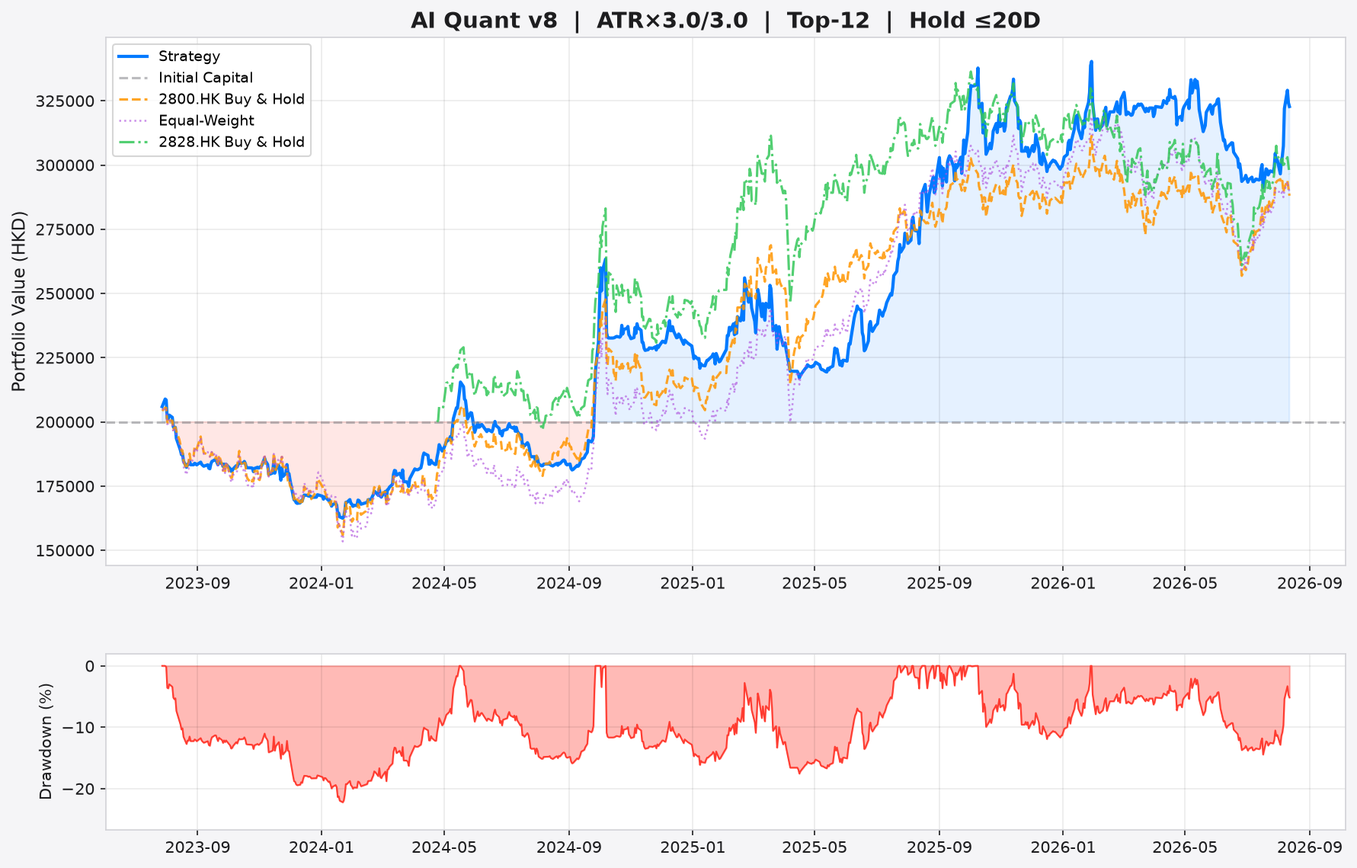
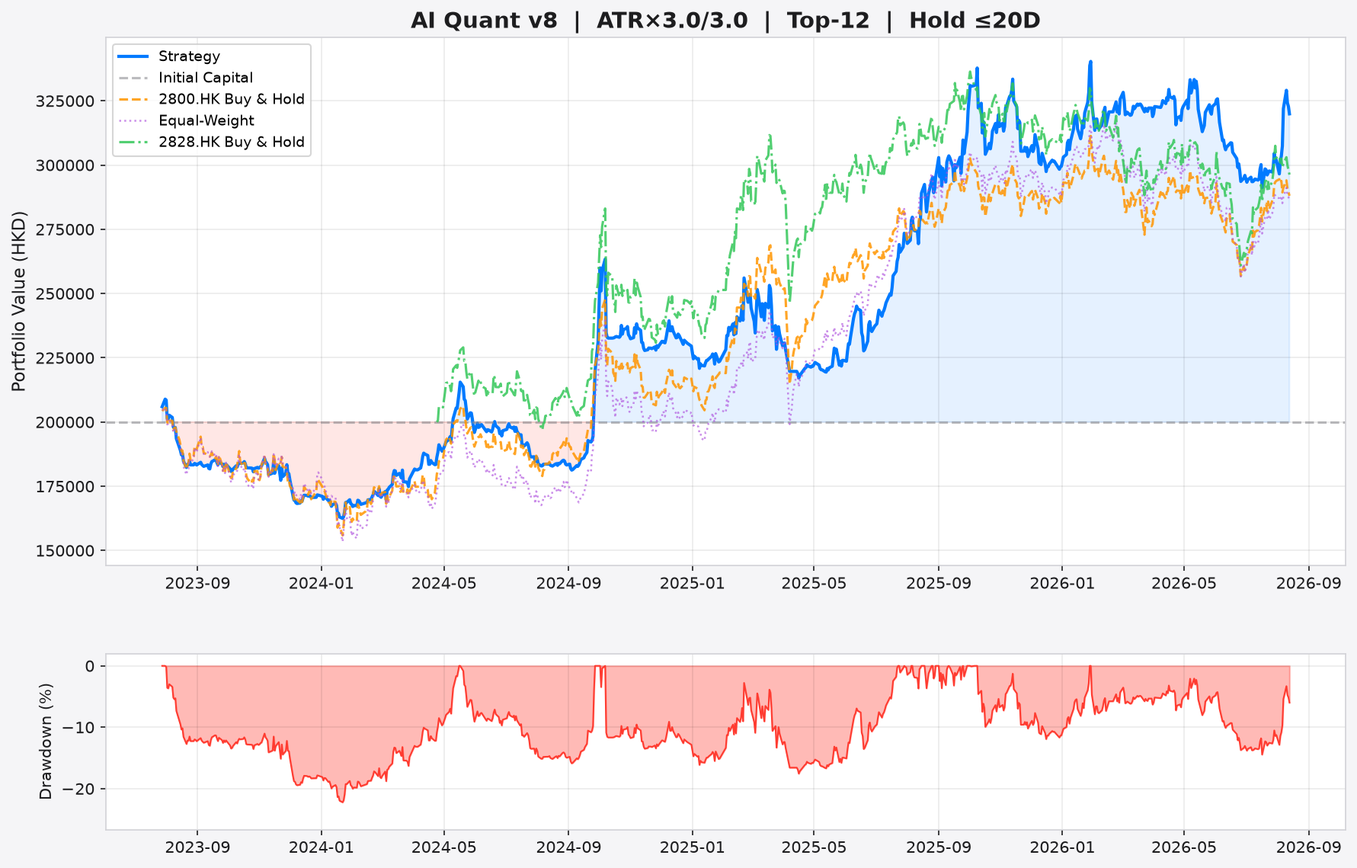
📊 AI Report v8.5 + Paper Trading (2026-08-13)

diff --git a/stock_report.html b/stock_report.html
@@ -3,7 +3,7 @@
 <head>
     <meta charset="utf-8">
     <meta name="viewport" content="width=device-width, initial-scale=1.0">
-    <title>AI 港股量化交易 v8.5 — 2026-08-12</title>
+    <title>AI 港股量化交易 v8.5 — 2026-08-13</title>
     <meta name="description" content="AI 驅動的港股量化交易系統 v8.5，完整風險報告、Benchmark 對比、OCO 智慧掛單建議">
     <script>
         (function() {
@@ -292,7 +292,7 @@
 
     <h1>🎯 AI 港股量化交易 v8.5</h1>
     <p class="subtitle">
-        Event-Driven System &nbsp;|&nbsp; 報表日期: 2026-08-12 &nbsp;|&nbsp;
+        Event-Driven System &nbsp;|&nbsp; 報表日期: 2026-08-13 &nbsp;|&nbsp;
         <span class="config-badge">🛡 ATR×3.0/3.0</span>
         <span class="config-badge">🌐 Universe-60</span>
         <span class="config-badge">🎯 Top-12</span>
@@ -305,11 +305,11 @@
     <div class="stats">
         <div class="stat-card">
             <div class="label">策略總報酬率</div>
-            <div class="value" style="color:#00ff00;">+61.4%</div>
+            <div class="value" style="color:#00ff00;">+60.0%</div>
         </div>
         <div class="stat-card">
             <div class="label">年化報酬率</div>
-            <div class="value" style="color:#00ff00;">+17.5%</div>
+            <div class="value" style="color:#00ff00;">+17.2%</div>
         </div>
         <div class="stat-card">
             <div class="label">年化波動率</div>
@@ -317,11 +317,11 @@
         </div>
         <div class="stat-card risk">
             <div class="label">Sharpe Ratio</div>
-            <div class="value" style="color:#00ff00;">0.78</div>
+            <div class="value" style="color:#00ff00;">0.76</div>
         </div>
         <div class="stat-card risk">
             <div class="label">Sortino Ratio</div>
-            <div class="value">1.05</div>
+            <div class="value">1.03</div>
         </div>
         <div class="stat-card risk">
             <div class="label">最大回撤</div>
@@ -329,7 +329,7 @@
         </div>
         <div class="stat-card risk">
             <div class="label">Calmar Ratio</div>
-            <div class="value">0.79</div>
+            <div class="value">0.77</div>
         </div>
         <div class="stat-card">
             <div class="label">完成交易數</div>
@@ -372,28 +372,28 @@
             </tr>
         </thead>
         <tbody>
-<tr><td>1548</td><td>5.50</td><td>24.9</td><td><span style="color:#00ff00; font-weight:bold;">🟢 建議買進 #1</span></td><td><b>停利:</b> <span style="color:#00ff00">29.6</span> (+19.2%) <br><b>停損:</b> <span style="color:#ff4444">20.1</span> (-19.2%) <br><b>最晚出場:</b> 2026-09-09</td><td><span style="font-size:0.72rem; color:#888;">歷史 <b>5</b>筆 | 勝率 <b style="color:#00ff00">60%</b> | 均報酬 <b style="color:#00ff00">+5.0%</b></span></td><td><span style="font-size:0.78rem;">⚪ 無資料<br><span style="color:#888; font-weight:bold;">+0.0%</span></span></td><td><span style="font-size:0.78rem;">⚪ 中性</span></td></tr>
-<tr><td>2359</td><td>5.31</td><td>198.9</td><td><span style="color:#00ff00; font-weight:bold;">🟢 建議買進 #2</span></td><td><b>停利:</b> <span style="color:#00ff00">224.7</span> (+13.0%) <br><b>停損:</b> <span style="color:#ff4444">173.1</span> (-13.0%) <br><b>最晚出場:</b> 2026-09-09</td><td><span style="font-size:0.72rem; color:#888;">歷史 <b>14</b>筆 | 勝率 <b style="color:#00ff00">86%</b> | 均報酬 <b style="color:#00ff00">+7.9%</b></span></td><td><span style="font-size:0.78rem;">⚪ 無資料<br><span style="color:#888; font-weight:bold;">+0.0%</span></span></td><td><span style="font-size:0.78rem;">⚪ 中性</span></td></tr>
-<tr><td>2269</td><td>5.17</td><td>45.7</td><td><span style="color:#00ff00; font-weight:bold;">🟢 建議買進 #3</span></td><td><b>停利:</b> <span style="color:#00ff00">51.7</span> (+13.1%) <br><b>停損:</b> <span style="color:#ff4444">39.7</span> (-13.1%) <br><b>最晚出場:</b> 2026-09-09</td><td><span style="font-size:0.72rem; color:#888;">歷史 <b>10</b>筆 | 勝率 <b style="color:#ff4444">40%</b> | 均報酬 <b style="color:#ff4444">-3.1%</b></span></td><td><span style="font-size:0.78rem;">⚪ 無資料<br><span style="color:#888; font-weight:bold;">+0.0%</span></span></td><td><span style="font-size:0.78rem;">⚪ 中性</span></td></tr>
-<tr><td>2899</td><td>5.10</td><td>35.9</td><td><span style="color:#00ff00; font-weight:bold;">🟢 建議買進 #4</span></td><td><b>停利:</b> <span style="color:#00ff00">40.6</span> (+13.1%) <br><b>停損:</b> <span style="color:#ff4444">31.2</span> (-13.1%) <br><b>最晚出場:</b> 2026-09-09</td><td><span style="font-size:0.72rem; color:#888;">歷史 <b>11</b>筆 | 勝率 <b style="color:#00ff00">73%</b> | 均報酬 <b style="color:#00ff00">+2.7%</b></span></td><td><span style="font-size:0.78rem;">⚪ 無資料<br><span style="color:#888; font-weight:bold;">+0.0%</span></span></td><td><span style="font-size:0.78rem;">⚪ 中性</span></td></tr>
-<tr><td>6160</td><td>5.08</td><td>216.6</td><td><span style="color:#00ff00; font-weight:bold;">🟢 建議買進 #5</span></td><td><b>停利:</b> <span style="color:#00ff00">239.9</span> (+10.7%) <br><b>停損:</b> <span style="color:#ff4444">193.3</span> (-10.7%) <br><b>最晚出場:</b> 2026-09-09</td><td><span style="font-size:0.72rem; color:#888;">歷史 <b>4</b>筆 | 勝率 <b style="color:#00ff00">50%</b> | 均報酬 <b style="color:#ff4444">-1.2%</b></span></td><td><span style="font-size:0.78rem;">⚪ 無資料<br><span style="color:#888; font-weight:bold;">+0.0%</span></span></td><td><span style="font-size:0.78rem;">⚪ 中性</span></td></tr>
-<tr><td>0669</td><td>4.93</td><td>144.8</td><td><span style="color:#00ff00; font-weight:bold;">🟢 建議買進 #6</span></td><td><b>停利:</b> <span style="color:#00ff00">160.1</span> (+10.6%) <br><b>停損:</b> <span style="color:#ff4444">129.5</span> (-10.6%) <br><b>最晚出場:</b> 2026-09-09</td><td><span style="font-size:0.72rem; color:#888;">歷史 <b>7</b>筆 | 勝率 <b style="color:#00ff00">71%</b> | 均報酬 <b style="color:#00ff00">+1.9%</b></span></td><td><span style="font-size:0.78rem;">⚪ 無資料<br><span style="color:#888; font-weight:bold;">+0.0%</span></span></td><td><span style="font-size:0.78rem;">⚪ 中性</span></td></tr>
-<tr><td>0268</td><td>4.90</td><td>8.2</td><td><span style="color:#00ff00; font-weight:bold;">🟢 建議買進 #7</span></td><td><b>停利:</b> <span style="color:#00ff00">9.8</span> (+19.0%) <br><b>停損:</b> <span style="color:#ff4444">6.7</span> (-19.0%) <br><b>最晚出場:</b> 2026-09-09</td><td><span style="font-size:0.72rem; color:#888;">歷史 <b>9</b>筆 | 勝率 <b style="color:#ff4444">22%</b> | 均報酬 <b style="color:#ff4444">-8.3%</b></span></td><td><span style="font-size:0.78rem;">⚪ 無資料<br><span style="color:#888; font-weight:bold;">+0.0%</span></span></td><td><span style="font-size:0.78rem;">⚪ 中性</span></td></tr>
-<tr><td>1208</td><td>4.77</td><td>8.9</td><td><span style="color:#00ff00; font-weight:bold;">🟢 建議買進 #8</span></td><td><b>停利:</b> <span style="color:#00ff00">10.3</span> (+15.8%) <br><b>停損:</b> <span style="color:#ff4444">7.5</span> (-15.8%) <br><b>最晚出場:</b> 2026-09-09</td><td><span style="font-size:0.72rem; color:#888;">歷史 <b>9</b>筆 | 勝率 <b style="color:#ff4444">44%</b> | 均報酬 <b style="color:#ff4444">-3.6%</b></span></td><td><span style="font-size:0.78rem;">⚪ 無資料<br><span style="color:#888; font-weight:bold;">+0.0%</span></span></td><td><span style="font-size:0.78rem;">⚪ 中性</span></td></tr>
-<tr><td>3690</td><td>4.71</td><td>91.7</td><td><span style="color:#00ff00; font-weight:bold;">🟢 建議買進 #9</span></td><td><b>停利:</b> <span style="color:#00ff00">102.7</span> (+12.0%) <br><b>停損:</b> <span style="color:#ff4444">80.6</span> (-12.0%) <br><b>最晚出場:</b> 2026-09-09</td><td><span style="font-size:0.72rem; color:#888;">歷史 <b>11</b>筆 | 勝率 <b style="color:#00ff00">82%</b> | 均報酬 <b style="color:#00ff00">+8.0%</b></span></td><td><span style="font-size:0.78rem;">⚪ 無資料<br><span style="color:#888; font-weight:bold;">+0.0%</span></span></td><td><span style="font-size:0.78rem;">⚪ 中性</span></td></tr>
-<tr><td>9987</td><td>4.63</td><td>375.4</td><td><span style="color:#00ff00; font-weight:bold;">🟢 建議買進 #10</span></td><td><b>停利:</b> <span style="color:#00ff00">405.8</span> (+8.1%) <br><b>停損:</b> <span style="color:#ff4444">345.0</span> (-8.1%) <br><b>最晚出場:</b> 2026-09-09</td><td><span style="font-size:0.72rem; color:#555;">歷史資料不足</span></td><td><span style="font-size:0.78rem;">⚪ 無資料<br><span style="color:#888; font-weight:bold;">+0.0%</span></span></td><td><span style="font-size:0.78rem;">⚪ 中性</span></td></tr>
-<tr><td>3993</td><td>4.41</td><td>18.1</td><td><span style="color:#00ff00; font-weight:bold;">🟢 建議買進 #11</span></td><td><b>停利:</b> <span style="color:#00ff00">20.9</span> (+15.2%) <br><b>停損:</b> <span style="color:#ff4444">15.3</span> (-15.2%) <br><b>最晚出場:</b> 2026-09-09</td><td><span style="font-size:0.72rem; color:#888;">歷史 <b>12</b>筆 | 勝率 <b style="color:#00ff00">83%</b> | 均報酬 <b style="color:#00ff00">+7.6%</b></span></td><td><span style="font-size:0.78rem;">⚪ 無資料<br><span style="color:#888; font-weight:bold;">+0.0%</span></span></td><td><span style="font-size:0.78rem;">⚪ 中性</span></td></tr>
-<tr><td>9988</td><td>4.32</td><td>122.6</td><td><span style="color:#00ff00; font-weight:bold;">🟢 建議買進 #12</span></td><td><b>停利:</b> <span style="color:#00ff00">137.8</span> (+12.4%) <br><b>停損:</b> <span style="color:#ff4444">107.4</span> (-12.4%) <br><b>最晚出場:</b> 2026-09-09</td><td><span style="font-size:0.72rem; color:#888;">歷史 <b>7</b>筆 | 勝率 <b style="color:#00ff00">57%</b> | 均報酬 <b style="color:#00ff00">+2.3%</b></span></td><td><span style="font-size:0.78rem;">⚪ 無資料<br><span style="color:#888; font-weight:bold;">+0.0%</span></span></td><td><span style="font-size:0.78rem;">⚪ 中性</span></td></tr>
-<tr style="opacity:0.6"><td>2388</td><td>4.17</td><td>49.8</td><td><span style="color:#ffab00">🟡 候選 (超出 Top-K)</span></td><td>-</td><td><span style="font-size:0.72rem; color:#888;">勝率 <b style="color:#ff4444">25%</b></span></td><td><span style="font-size:0.72rem;">⚪ 無資料<br><span style="color:#888">+0.0%</span></span></td><td><span style="font-size:0.72rem;">⚪ 中性</span></td></tr>
-<tr style="opacity:0.6"><td>9618</td><td>3.97</td><td>123.0</td><td><span style="color:#ffab00">🟡 候選 (超出 Top-K)</span></td><td>-</td><td><span style="font-size:0.72rem; color:#888;">勝率 <b style="color:#00ff00">75%</b></span></td><td><span style="font-size:0.72rem;">⚪ 無資料<br><span style="color:#888">+0.0%</span></span></td><td><span style="font-size:0.72rem;">⚪ 中性</span></td></tr>
-<tr style="opacity:0.6"><td>1171</td><td>3.92</td><td>12.5</td><td><span style="color:#ffab00">🟡 候選 (超出 Top-K)</span></td><td>-</td><td><span style="font-size:0.72rem; color:#888;">勝率 <b style="color:#00ff00">50%</b></span></td><td><span style="font-size:0.72rem;">⚪ 無資料<br><span style="color:#888">+0.0%</span></span></td><td><span style="font-size:0.72rem;">⚪ 中性</span></td></tr>
-<tr style="opacity:0.6"><td>1109</td><td>3.87</td><td>35.0</td><td><span style="color:#ffab00">🟡 候選 (超出 Top-K)</span></td><td>-</td><td><span style="font-size:0.72rem; color:#888;">勝率 <b style="color:#ff4444">0%</b></span></td><td><span style="font-size:0.72rem;">⚪ 無資料<br><span style="color:#888">+0.0%</span></span></td><td><span style="font-size:0.72rem;">⚪ 中性</span></td></tr>
-<tr style="opacity:0.6"><td>0939</td><td>3.79</td><td>8.8</td><td><span style="color:#ffab00">🟡 候選 (超出 Top-K)</span></td><td>-</td><td><span style="font-size:0.72rem; color:#888;">勝率 <b style="color:#00ff00">67%</b></span></td><td><span style="font-size:0.72rem;">⚪ 無資料<br><span style="color:#888">+0.0%</span></span></td><td><span style="font-size:0.72rem;">⚪ 中性</span></td></tr>
-<tr style="opacity:0.4"><td>2600</td><td>3.54</td><td>8.8</td><td><span style="color:#aaaaaa">⚪ 觀望 (低於 MA)</span></td><td>-</td><td>-</td><td style="color:#555">-</td><td style="color:#555">-</td></tr>
-<tr style="opacity:0.4"><td>2382</td><td>2.71</td><td>58.8</td><td><span style="color:#aaaaaa">⚪ 觀望 (低於 MA)</span></td><td>-</td><td>-</td><td style="color:#555">-</td><td style="color:#555">-</td></tr>
-<tr style="opacity:0.4"><td>2318</td><td>2.01</td><td>55.5</td><td><span style="color:#aaaaaa">⚪ 觀望 (低於 MA)</span></td><td>-</td><td>-</td><td style="color:#555">-</td><td style="color:#555">-</td></tr>
-<tr style="opacity:0.4"><td>1810</td><td>1.98</td><td>26.4</td><td><span style="color:#aaaaaa">⚪ 觀望 (評分不足)</span></td><td>-</td><td>-</td><td style="color:#555">-</td><td style="color:#555">-</td></tr>
-<tr style="opacity:0.4"><td>0700</td><td>1.71</td><td>461.6</td><td><span style="color:#aaaaaa">⚪ 觀望 (評分不足)</span></td><td>-</td><td>-</td><td style="color:#555">-</td><td style="color:#555">-</td></tr>
+<tr><td>1548</td><td>5.50</td><td>26.0</td><td><span style="color:#00ff00; font-weight:bold;">🟢 建議買進 #1</span></td><td><b>停利:</b> <span style="color:#00ff00">30.9</span> (+19.0%) <br><b>停損:</b> <span style="color:#ff4444">21.0</span> (-19.0%) <br><b>最晚出場:</b> 2026-09-10</td><td><span style="font-size:0.72rem; color:#888;">歷史 <b>5</b>筆 | 勝率 <b style="color:#00ff00">60%</b> | 均報酬 <b style="color:#00ff00">+5.0%</b></span></td><td><span style="font-size:0.78rem;">⚪ 無資料<br><span style="color:#888; font-weight:bold;">+0.0%</span></span></td><td><span style="font-size:0.78rem;">⚪ 中性</span></td></tr>
+<tr><td>2359</td><td>5.41</td><td>203.2</td><td><span style="color:#00ff00; font-weight:bold;">🟢 建議買進 #2</span></td><td><b>停利:</b> <span style="color:#00ff00">229.3</span> (+12.9%) <br><b>停損:</b> <span style="color:#ff4444">177.1</span> (-12.9%) <br><b>最晚出場:</b> 2026-09-10</td><td><span style="font-size:0.72rem; color:#888;">歷史 <b>14</b>筆 | 勝率 <b style="color:#00ff00">86%</b> | 均報酬 <b style="color:#00ff00">+7.9%</b></span></td><td><span style="font-size:0.78rem;">⚪ 無資料<br><span style="color:#888; font-weight:bold;">+0.0%</span></span></td><td><span style="font-size:0.78rem;">⚪ 中性</span></td></tr>
+<tr><td>2269</td><td>5.32</td><td>45.7</td><td><span style="color:#00ff00; font-weight:bold;">🟢 建議買進 #3</span></td><td><b>停利:</b> <span style="color:#00ff00">51.6</span> (+12.9%) <br><b>停損:</b> <span style="color:#ff4444">39.8</span> (-12.9%) <br><b>最晚出場:</b> 2026-09-10</td><td><span style="font-size:0.72rem; color:#888;">歷史 <b>10</b>筆 | 勝率 <b style="color:#ff4444">40%</b> | 均報酬 <b style="color:#ff4444">-3.1%</b></span></td><td><span style="font-size:0.78rem;">⚪ 無資料<br><span style="color:#888; font-weight:bold;">+0.0%</span></span></td><td><span style="font-size:0.78rem;">⚪ 中性</span></td></tr>
+<tr><td>6160</td><td>5.22</td><td>219.4</td><td><span style="color:#00ff00; font-weight:bold;">🟢 建議買進 #4</span></td><td><b>停利:</b> <span style="color:#00ff00">243.1</span> (+10.8%) <br><b>停損:</b> <span style="color:#ff4444">195.7</span> (-10.8%) <br><b>最晚出場:</b> 2026-09-10</td><td><span style="font-size:0.72rem; color:#888;">歷史 <b>4</b>筆 | 勝率 <b style="color:#00ff00">50%</b> | 均報酬 <b style="color:#ff4444">-1.2%</b></span></td><td><span style="font-size:0.78rem;">⚪ 無資料<br><span style="color:#888; font-weight:bold;">+0.0%</span></span></td><td><span style="font-size:0.78rem;">⚪ 中性</span></td></tr>
+<tr><td>0669</td><td>5.07</td><td>144.9</td><td><span style="color:#00ff00; font-weight:bold;">🟢 建議買進 #5</span></td><td><b>停利:</b> <span style="color:#00ff00">160.3</span> (+10.7%) <br><b>停損:</b> <span style="color:#ff4444">129.5</span> (-10.7%) <br><b>最晚出場:</b> 2026-09-10</td><td><span style="font-size:0.72rem; color:#888;">歷史 <b>7</b>筆 | 勝率 <b style="color:#00ff00">71%</b> | 均報酬 <b style="color:#00ff00">+1.9%</b></span></td><td><span style="font-size:0.78rem;">⚪ 無資料<br><span style="color:#888; font-weight:bold;">+0.0%</span></span></td><td><span style="font-size:0.78rem;">⚪ 中性</span></td></tr>
+<tr><td>2899</td><td>4.78</td><td>34.5</td><td><span style="color:#00ff00; font-weight:bold;">🟢 建議買進 #6</span></td><td><b>停利:</b> <span style="color:#00ff00">39.2</span> (+13.7%) <br><b>停損:</b> <span style="color:#ff4444">29.7</span> (-13.7%) <br><b>最晚出場:</b> 2026-09-10</td><td><span style="font-size:0.72rem; color:#888;">歷史 <b>11</b>筆 | 勝率 <b style="color:#00ff00">73%</b> | 均報酬 <b style="color:#00ff00">+2.7%</b></span></td><td><span style="font-size:0.78rem;">⚪ 無資料<br><span style="color:#888; font-weight:bold;">+0.0%</span></span></td><td><span style="font-size:0.78rem;">⚪ 中性</span></td></tr>
+<tr><td>2388</td><td>4.74</td><td>50.8</td><td><span style="color:#00ff00; font-weight:bold;">🟢 建議買進 #7</span></td><td><b>停利:</b> <span style="color:#00ff00">54.1</span> (+6.6%) <br><b>停損:</b> <span style="color:#ff4444">47.4</span> (-6.6%) <br><b>最晚出場:</b> 2026-09-10</td><td><span style="font-size:0.72rem; color:#888;">歷史 <b>4</b>筆 | 勝率 <b style="color:#ff4444">25%</b> | 均報酬 <b style="color:#ff4444">-3.5%</b></span></td><td><span style="font-size:0.78rem;">⚪ 無資料<br><span style="color:#888; font-weight:bold;">+0.0%</span></span></td><td><span style="font-size:0.78rem;">⚪ 中性</span></td></tr>
+<tr><td>9987</td><td>4.63</td><td>376.4</td><td><span style="color:#00ff00; font-weight:bold;">🟢 建議買進 #8</span></td><td><b>停利:</b> <span style="color:#00ff00">406.2</span> (+7.9%) <br><b>停損:</b> <span style="color:#ff4444">346.6</span> (-7.9%) <br><b>最晚出場:</b> 2026-09-10</td><td><span style="font-size:0.72rem; color:#555;">歷史資料不足</span></td><td><span style="font-size:0.78rem;">⚪ 無資料<br><span style="color:#888; font-weight:bold;">+0.0%</span></span></td><td><span style="font-size:0.78rem;">⚪ 中性</span></td></tr>
+<tr><td>3888</td><td>4.37</td><td>26.5</td><td><span style="color:#00ff00; font-weight:bold;">🟢 建議買進 #9</span></td><td><b>停利:</b> <span style="color:#00ff00">30.1</span> (+13.3%) <br><b>停損:</b> <span style="color:#ff4444">23.0</span> (-13.3%) <br><b>最晚出場:</b> 2026-09-10</td><td><span style="font-size:0.72rem; color:#888;">歷史 <b>3</b>筆 | 勝率 <b style="color:#00ff00">100%</b> | 均報酬 <b style="color:#00ff00">+5.1%</b></span></td><td><span style="font-size:0.78rem;">⚪ 無資料<br><span style="color:#888; font-weight:bold;">+0.0%</span></span></td><td><span style="font-size:0.78rem;">⚪ 中性</span></td></tr>
+<tr><td>3690</td><td>4.28</td><td>91.2</td><td><span style="color:#00ff00; font-weight:bold;">🟢 建議買進 #10</span></td><td><b>停利:</b> <span style="color:#00ff00">101.7</span> (+11.4%) <br><b>停損:</b> <span style="color:#ff4444">80.8</span> (-11.4%) <br><b>最晚出場:</b> 2026-09-10</td><td><span style="font-size:0.72rem; color:#888;">歷史 <b>11</b>筆 | 勝率 <b style="color:#00ff00">82%</b> | 均報酬 <b style="color:#00ff00">+8.0%</b></span></td><td><span style="font-size:0.78rem;">⚪ 無資料<br><span style="color:#888; font-weight:bold;">+0.0%</span></span></td><td><span style="font-size:0.78rem;">⚪ 中性</span></td></tr>
+<tr><td>0268</td><td>4.27</td><td>7.9</td><td><span style="color:#00ff00; font-weight:bold;">🟢 建議買進 #11</span></td><td><b>停利:</b> <span style="color:#00ff00">9.4</span> (+19.9%) <br><b>停損:</b> <span style="color:#ff4444">6.3</span> (-19.9%) <br><b>最晚出場:</b> 2026-09-10</td><td><span style="font-size:0.72rem; color:#888;">歷史 <b>9</b>筆 | 勝率 <b style="color:#ff4444">22%</b> | 均報酬 <b style="color:#ff4444">-8.3%</b></span></td><td><span style="font-size:0.78rem;">⚪ 無資料<br><span style="color:#888; font-weight:bold;">+0.0%</span></span></td><td><span style="font-size:0.78rem;">⚪ 中性</span></td></tr>
+<tr><td>0939</td><td>4.18</td><td>8.8</td><td><span style="color:#00ff00; font-weight:bold;">🟢 建議買進 #12</span></td><td><b>停利:</b> <span style="color:#00ff00">9.4</span> (+6.8%) <br><b>停損:</b> <span style="color:#ff4444">8.2</span> (-6.8%) <br><b>最晚出場:</b> 2026-09-10</td><td><span style="font-size:0.72rem; color:#888;">歷史 <b>3</b>筆 | 勝率 <b style="color:#00ff00">67%</b> | 均報酬 <b style="color:#00ff00">+2.5%</b></span></td><td><span style="font-size:0.78rem;">⚪ 無資料<br><span style="color:#888; font-weight:bold;">+0.0%</span></span></td><td><span style="font-size:0.78rem;">⚪ 中性</span></td></tr>
+<tr style="opacity:0.6"><td>9618</td><td>4.03</td><td>123.0</td><td><span style="color:#ffab00">🟡 候選 (超出 Top-K)</span></td><td>-</td><td><span style="font-size:0.72rem; color:#888;">勝率 <b style="color:#00ff00">75%</b></span></td><td><span style="font-size:0.72rem;">⚪ 無資料<br><span style="color:#888">+0.0%</span></span></td><td><span style="font-size:0.72rem;">⚪ 中性</span></td></tr>
+<tr style="opacity:0.6"><td>0005</td><td>4.01</td><td>163.0</td><td><span style="color:#ffab00">🟡 候選 (超出 Top-K)</span></td><td>-</td><td><span style="font-size:0.72rem; color:#888;">勝率 <b style="color:#00ff00">55%</b></span></td><td><span style="font-size:0.72rem;">⚪ 無資料<br><span style="color:#888">+0.0%</span></span></td><td><span style="font-size:0.72rem;">⚪ 中性</span></td></tr>
+<tr style="opacity:0.6"><td>1093</td><td>3.98</td><td>8.9</td><td><span style="color:#ffab00">🟡 候選 (超出 Top-K)</span></td><td>-</td><td><span style="font-size:0.72rem; color:#888;">勝率 <b style="color:#00ff00">60%</b></span></td><td><span style="font-size:0.72rem;">⚪ 無資料<br><span style="color:#888">+0.0%</span></span></td><td><span style="font-size:0.72rem;">⚪ 中性</span></td></tr>
+<tr style="opacity:0.6"><td>1398</td><td>3.89</td><td>7.2</td><td><span style="color:#ffab00">🟡 候選 (超出 Top-K)</span></td><td>-</td><td><span style="font-size:0.72rem; color:#888;">勝率 <b style="color:#00ff00">50%</b></span></td><td><span style="font-size:0.72rem;">⚪ 無資料<br><span style="color:#888">+0.0%</span></span></td><td><span style="font-size:0.72rem;">⚪ 中性</span></td></tr>
+<tr style="opacity:0.6"><td>9988</td><td>3.88</td><td>121.9</td><td><span style="color:#ffab00">🟡 候選 (超出 Top-K)</span></td><td>-</td><td><span style="font-size:0.72rem; color:#888;">勝率 <b style="color:#00ff00">57%</b></span></td><td><span style="font-size:0.72rem;">⚪ 無資料<br><span style="color:#888">+0.0%</span></span></td><td><span style="font-size:0.72rem;">⚪ 中性</span></td></tr>
+<tr style="opacity:0.4"><td>1171</td><td>3.87</td><td>12.3</td><td><span style="color:#aaaaaa">⚪ 觀望 (低於 MA)</span></td><td>-</td><td>-</td><td style="color:#555">-</td><td style="color:#555">-</td></tr>
+<tr style="opacity:0.4"><td>2600</td><td>2.72</td><td>8.2</td><td><span style="color:#aaaaaa">⚪ 觀望 (低於 MA)</span></td><td>-</td><td>-</td><td style="color:#555">-</td><td style="color:#555">-</td></tr>
+<tr style="opacity:0.4"><td>2382</td><td>2.42</td><td>58.6</td><td><span style="color:#aaaaaa">⚪ 觀望 (低於 MA)</span></td><td>-</td><td>-</td><td style="color:#555">-</td><td style="color:#555">-</td></tr>
+<tr style="opacity:0.4"><td>2318</td><td>2.17</td><td>55.5</td><td><span style="color:#aaaaaa">⚪ 觀望 (低於 MA)</span></td><td>-</td><td>-</td><td style="color:#555">-</td><td style="color:#555">-</td></tr>
+<tr style="opacity:0.4"><td>2628</td><td>2.11</td><td>27.6</td><td><span style="color:#aaaaaa">⚪ 觀望 (低於 MA)</span></td><td>-</td><td>-</td><td style="color:#555">-</td><td style="color:#555">-</td></tr>
 
         </tbody>
     </table>
@@ -417,7 +417,7 @@
         </div>
         <div class="stat-card" style="border-left-color:#00ff00">
             <div class="label">超額年化報酬 (α)</div>
-            <div class="value" style="color:#00ff00">+5.4%</div>
+            <div class="value" style="color:#00ff00">+5.1%</div>
         </div>
     </div>
 
@@ -436,7 +436,7 @@
         </div>
         <div class="stat-card" style="border-left-color:#00ff00">
             <div class="label">超額 vs 2828.HK (共存期)</div>
-            <div class="value" style="color:#00ff00">+25.0%</div>
+            <div class="value" style="color:#00ff00">+23.6%</div>
         </div>
     </div>
     <img src="backtest_chart.png" alt="AI Quantitative Backtest Equity Curve with Benchmark">
@@ -451,19 +451,19 @@
         </div>
         <div class="stat-card benchmark">
             <div class="label">2800.HK 近 5 日</div>
-            <div class="value" style="color:#ff4444">-2.0%</div>
+            <div class="value" style="color:#ff4444">-0.5%</div>
         </div>
         <div class="stat-card benchmark">
             <div class="label">2800.HK 近 20 日</div>
-            <div class="value" style="color:#00ff00">+3.1%</div>
+            <div class="value" style="color:#00ff00">+1.6%</div>
         </div>
         <div class="stat-card benchmark">
             <div class="label">2800.HK 近 60 日</div>
-            <div class="value" style="color:#ff4444">-0.9%</div>
+            <div class="value" style="color:#00ff00">+0.2%</div>
         </div>
         <div class="stat-card risk">
             <div class="label">市場波動率 (20D)</div>
-            <div class="value">19.5%</div>
+            <div class="value">18.5%</div>
         </div>
     </div>
 
@@ -473,7 +473,7 @@
     <div class="stats">
         <div class="stat-card risk">
             <div class="label">目前回撤</div>
-            <div class="value" style="color:#ffab00">-5.2%</div>
+            <div class="value" style="color:#ffab00">-6.0%</div>
         </div>
         <div class="stat-card">
             <div class="label">權益最高點</div>
@@ -490,7 +490,7 @@
 <tr><td>#1</td><td>2023-08-02</td><td>2024-05-16</td><td style="color:#ff4444; font-weight:bold">-22.2%</td><td>288 天</td></tr>
 <tr><td>#2</td><td>2024-10-08</td><td>2025-07-22</td><td style="color:#ff4444; font-weight:bold">-17.6%</td><td>287 天</td></tr>
 <tr><td>#3</td><td>2024-05-21</td><td>2024-09-27</td><td style="color:#ff4444; font-weight:bold">-15.9%</td><td>129 天</td></tr>
-<tr><td>#4</td><td>2026-01-30</td><td>2026-08-12</td><td style="color:#ff4444; font-weight:bold">-14.5%</td><td>194 天</td></tr>
+<tr><td>#4</td><td>2026-01-30</td><td>2026-08-13</td><td style="color:#ff4444; font-weight:bold">-14.5%</td><td>195 天</td></tr>
 <tr><td>#5</td><td>2025-10-10</td><td>2026-01-28</td><td style="color:#ff4444; font-weight:bold">-11.9%</td><td>110 天</td></tr>
 
         </tbody>
@@ -502,7 +502,7 @@
     <div class="stats">
         <div class="stat-card" style="border-left-color:#ff4444">
             <div class="label">近 60 日 Sharpe</div>
-            <div class="value" style="color:#ff4444">0.17</div>
+            <div class="value" style="color:#ff4444">0.42</div>
         </div>
         <div class="stat-card">
             <div class="label">歷史平均 Sharpe</div>
@@ -612,7 +612,7 @@
 <tr><td>2359</td><td>2026-07-03</td><td>2026-07-31</td><td>154.2</td><td>160.7</td><td>⚪ 時間到期</td><td>20天</td><td style="color:#00ff00; font-weight:bold;">+3.9%</td></tr>
 <tr><td>9618</td><td>2026-07-24</td><td>2026-07-30</td><td>117.4</td><td>129.0</td><td>🟢 停利</td><td>4天</td><td style="color:#00ff00; font-weight:bold;">+9.5%</td></tr>
 <tr><td>9999</td><td>2026-07-10</td><td>2026-07-23</td><td>212.6</td><td>191.3</td><td>🔴 停損</td><td>9天</td><td style="color:#ff4444; font-weight:bold;">-10.3%</td></tr>
-<tr><td>0005</td><td>2026-07-03</td><td>2026-07-23</td><td>150.2</td><td>160.6</td><td>🟢 停利</td><td>14天</td><td style="color:#00ff00; font-weight:bold;">+6.6%</td></tr>
+<tr><td>0005</td><td>2026-07-03</td><td>2026-07-23</td><td>150.1</td><td>160.5</td><td>🟢 停利</td><td>14天</td><td style="color:#00ff00; font-weight:bold;">+6.6%</td></tr>
 <tr><td>2319</td><td>2026-07-03</td><td>2026-07-21</td><td>16.7</td><td>18.5</td><td>🟢 停利</td><td>12天</td><td style="color:#00ff00; font-weight:bold;">+10.3%</td></tr>
 <tr><td>0669</td><td>2026-06-17</td><td>2026-07-17</td><td>124.8</td><td>128.3</td><td>⚪ 時間到期</td><td>20天</td><td style="color:#00ff00; font-weight:bold;">+2.5%</td></tr>
 <tr><td>2269</td><td>2026-07-03</td><td>2026-07-16</td><td>36.0</td><td>41.0</td><td>🟢 停利</td><td>9天</td><td style="color:#00ff00; font-weight:bold;">+13.4%</td></tr>
@@ -667,7 +667,7 @@
 <tr style="background:rgba(0,255,0,0.00)"><td>2026-05</td><td style="color:#00ff00; font-weight:bold">+0.0%</td></tr>
 <tr style="background:rgba(255,68,68,0.25)"><td>2026-06</td><td style="color:#ff4444; font-weight:bold">-8.3%</td></tr>
 <tr style="background:rgba(0,255,0,0.06)"><td>2026-07</td><td style="color:#00ff00; font-weight:bold">+2.0%</td></tr>
-<tr style="background:rgba(0,255,0,0.21)"><td>2026-08</td><td style="color:#00ff00; font-weight:bold">+6.9%</td></tr>
+<tr style="background:rgba(0,255,0,0.18)"><td>2026-08</td><td style="color:#00ff00; font-weight:bold">+5.9%</td></tr>
 
         </tbody>
     </table>

diff --git a/day_trade_report.html b/day_trade_report.html
@@ -3,7 +3,7 @@
 <head>
     <meta charset="utf-8">
     <meta name="viewport" content="width=device-width, initial-scale=1.0">
-    <title>AI 港股 Day Trade 報告 — 2026-08-12</title>
+    <title>AI 港股 Day Trade 報告 — 2026-08-13</title>
     <style>
         * { box-sizing: border-box; }
         body {
@@ -81,7 +81,7 @@
 <div class="container">
     <h1>⚡ AI 港股 Day Trade 報告</h1>
     <p class="subtitle">
-        報表日期：2026-08-12 ｜ 下一交易日：2026-08-13
+        報表日期：2026-08-13 ｜ 下一交易日：2026-08-14
         <br>
         <span class="badge">t-1 watchlist → t open trigger → t close exit</span>
         <span class="badge">SHORT</span>
@@ -95,27 +95,27 @@
 
     <h2>績效總覽</h2>
     <div class="stats">
-        <div class="stat-card"><div class="label">策略總報酬率</div><div class="value" style="color:#00ff00;">+9.4%</div></div>
+        <div class="stat-card"><div class="label">策略總報酬率</div><div class="value" style="color:#00ff00;">+9.6%</div></div>
         <div class="stat-card"><div class="label">年化報酬率</div><div class="value" style="color:#00ff00;">+2.9%</div></div>
-        <div class="stat-card"><div class="label">Sharpe Ratio</div><div class="value" style="color:#00ff00;">1.00</div></div>
+        <div class="stat-card"><div class="label">Sharpe Ratio</div><div class="value" style="color:#00ff00;">1.02</div></div>
         <div class="stat-card"><div class="label">最大回撤</div><div class="value" style="color:#ffab00;">-4.2%</div></div>
-        <div class="stat-card"><div class="label">完成交易數</div><div class="value">304</div></div>
-        <div class="stat-card"><div class="label">勝率</div><div class="value">52.6%</div></div>
-        <div class="stat-card"><div class="label">Profit Factor</div><div class="value">1.32</div></div>
-        <div class="stat-card"><div class="label">平均每筆</div><div class="value">+0.38%</div></div>
+        <div class="stat-card"><div class="label">完成交易數</div><div class="value">303</div></div>
+        <div class="stat-card"><div class="label">勝率</div><div class="value">52.8%</div></div>
+        <div class="stat-card"><div class="label">Profit Factor</div><div class="value">1.33</div></div>
+        <div class="stat-card"><div class="label">平均每筆</div><div class="value">+0.39%</div></div>
     </div>
 
     <h2>下一交易日 Day Trade 執行單</h2>
     <p class="section-note">
-        以 2026-08-12 收盤資料產生 watchlist；2026-08-13 開盤後只有符合 gap 條件才執行。
+        以 2026-08-13 收盤資料產生 watchlist；2026-08-14 開盤後只有符合 gap 條件才執行。
         預設為 short day trade，需確認標的可融券、可借券或有對應衍生工具。
     </p>
     <table>
         <thead><tr><th>股票代號</th><th>AI 評分</th><th>昨收參考</th><th>開盤觸發</th><th>狀態</th><th>日內執行計畫</th></tr></thead>
-        <tbody><tr style="opacity:1"><td>1548</td><td>5.00</td><td>24.86</td><td>開盤 gap +3.0% ~ +7.5%</td><td><span style="color:#ffab00;font-weight:bold;">🟢 建議 short day trade #1</span></td><td><b>估算進場:</b> 26.17<br><b>停利:</b> <span style="color:#00ff00">24.09</span> (7.9%)<br><b>停損:</b> <span style="color:#ff4444">27.44</span> (4.9%)<br><b>出場:</b> 當日收盤前</td></tr>
-<tr style="opacity:1"><td>2359</td><td>4.77</td><td>198.90</td><td>開盤 gap +3.0% ~ +7.5%</td><td><span style="color:#ffab00;font-weight:bold;">🟢 建議 short day trade #2</span></td><td><b>估算進場:</b> 209.34<br><b>停利:</b> <span style="color:#00ff00">198.15</span> (5.3%)<br><b>停損:</b> <span style="color:#ff4444">216.23</span> (3.3%)<br><b>出場:</b> 當日收盤前</td></tr>
-<tr style="opacity:1"><td>2269</td><td>4.63</td><td>45.70</td><td>開盤 gap +3.0% ~ +7.5%</td><td><span style="color:#ffab00;font-weight:bold;">🟢 建議 short day trade #3</span></td><td><b>估算進場:</b> 48.10<br><b>停利:</b> <span style="color:#00ff00">45.51</span> (5.4%)<br><b>停損:</b> <span style="color:#ff4444">49.69</span> (3.3%)<br><b>出場:</b> 當日收盤前</td></tr>
-<tr style="opacity:1"><td>2899</td><td>4.63</td><td>35.92</td><td>開盤 gap +3.0% ~ +7.5%</td><td><span style="color:#ffab00;font-weight:bold;">🟢 建議 short day trade #4</span></td><td><b>估算進場:</b> 37.81<br><b>停利:</b> <span style="color:#00ff00">35.77</span> (5.4%)<br><b>停損:</b> <span style="color:#ff4444">39.06</span> (3.3%)<br><b>出場:</b> 當日收盤前</td></tr>
+        <tbody><tr style="opacity:1"><td>1548</td><td>5.00</td><td>25.98</td><td>開盤 gap +3.0% ~ +7.5%</td><td><span style="color:#ffab00;font-weight:bold;">🟢 建議 short day trade #1</span></td><td><b>估算進場:</b> 27.34<br><b>停利:</b> <span style="color:#00ff00">25.20</span> (7.8%)<br><b>停損:</b> <span style="color:#ff4444">28.66</span> (4.8%)<br><b>出場:</b> 當日收盤前</td></tr>
+<tr style="opacity:1"><td>2359</td><td>4.86</td><td>203.20</td><td>開盤 gap +3.0% ~ +7.5%</td><td><span style="color:#ffab00;font-weight:bold;">🟢 建議 short day trade #2</span></td><td><b>估算進場:</b> 213.87<br><b>停利:</b> <span style="color:#00ff00">202.54</span> (5.3%)<br><b>停損:</b> <span style="color:#ff4444">220.84</span> (3.3%)<br><b>出場:</b> 當日收盤前</td></tr>
+<tr style="opacity:1"><td>2269</td><td>4.71</td><td>45.72</td><td>開盤 gap +3.0% ~ +7.5%</td><td><span style="color:#ffab00;font-weight:bold;">🟢 建議 short day trade #3</span></td><td><b>估算進場:</b> 48.12<br><b>停利:</b> <span style="color:#00ff00">45.57</span> (5.3%)<br><b>停損:</b> <span style="color:#ff4444">49.69</span> (3.3%)<br><b>出場:</b> 當日收盤前</td></tr>
+<tr style="opacity:1"><td>6160</td><td>4.57</td><td>219.40</td><td>開盤 gap +3.0% ~ +7.5%</td><td><span style="color:#ffab00;font-weight:bold;">🟢 建議 short day trade #4</span></td><td><b>估算進場:</b> 230.92<br><b>停利:</b> <span style="color:#00ff00">220.67</span> (4.4%)<br><b>停損:</b> <span style="color:#ff4444">237.23</span> (2.7%)<br><b>出場:</b> 當日收盤前</td></tr>
 </tbody>
     </table>
 
@@ -155,7 +155,7 @@
         </div>
         <div class="stat-card" style="border-left-color:#ff4444">
             <div class="label">超額 vs 2828.HK (共存期)</div>
-            <div class="value" style="color:#ff4444">-40.2%</div>
+            <div class="value" style="color:#ff4444">-39.9%</div>
         </div>
     </div>
     <img src="day_trade_chart.png" alt="HK day trade equity curve">
@@ -166,7 +166,7 @@
             <table>
                 <thead><tr><th>原因</th><th>筆數</th><th>平均報酬</th></tr></thead>
                 <tbody><tr><td>Day Close</td><td>192</td><td style="color:#00ff00;font-weight:bold;">+0.57%</td></tr>
-<tr><td>Stop Loss</td><td>62</td><td style="color:#ff4444;font-weight:bold;">-3.62%</td></tr>
+<tr><td>Stop Loss</td><td>61</td><td style="color:#ff4444;font-weight:bold;">-3.64%</td></tr>
 <tr><td>TP/SL same day (SL first)</td><td>4</td><td style="color:#ff4444;font-weight:bold;">-3.87%</td></tr>
 <tr><td>Take Profit</td><td>46</td><td style="color:#00ff00;font-weight:bold;">+5.32%</td></tr>
 </tbody>
@@ -182,7 +182,7 @@
 <tr><td>2024-11</td><td style="color:#00ff00;font-weight:bold;">+1.00%</td></tr>
 <tr><td>2024-12</td><td style="color:#00ff00;font-weight:bold;">+0.83%</td></tr>
 <tr><td>2025-01</td><td style="color:#00ff00;font-weight:bold;">+0.15%</td></tr>
-<tr><td>2025-02</td><td style="color:#ff4444;font-weight:bold;">-0.14%</td></tr>
+<tr><td>2025-02</td><td style="color:#00ff00;font-weight:bold;">+0.04%</td></tr>
 <tr><td>2025-03</td><td style="color:#00ff00;font-weight:bold;">+0.99%</td></tr>
 <tr><td>2025-04</td><td style="color:#00ff00;font-weight:bold;">+0.18%</td></tr>
 <tr><td>2025-05</td><td style="color:#00ff00;font-weight:bold;">+1.74%</td></tr>

diff --git a/paper_trading.html b/paper_trading.html
@@ -3,7 +3,7 @@
 <head>
     <meta charset="utf-8">
     <meta name="viewport" content="width=device-width, initial-scale=1.0">
-    <title>Paper Trading v8.5 — 2026-08-12</title>
+    <title>Paper Trading v8.5 — 2026-08-13</title>
     <meta name="description" content="HK Stocker v8.5 Paper Trading 實時績效追蹤">
     <script src="https://cdn.jsdelivr.net/npm/chart.js@4"></script>
     <style>
@@ -92,7 +92,7 @@
     <h1>📈 Paper Trading v8.5</h1>
     <p class="subtitle">
         <span class="badge badge-live">● LIVE</span>
-        起始日 2026-05-28 | 更新 2026-08-12 | 初始資金 200,000
+        起始日 2026-05-28 | 更新 2026-08-13 | 初始資金 200,000
     </p>
 
     <div class="metrics">
@@ -162,10 +162,10 @@ const ctx = document.getElementById('equityChart').getContext('2d');
 new Chart(ctx, {
     type: 'line',
     data: {
-        labels: ["2026-05-28", "2026-05-29", "2026-06-01", "2026-06-02", "2026-06-03", "2026-06-04", "2026-06-05", "2026-06-08", "2026-06-09", "2026-06-10", "2026-06-11", "2026-06-12", "2026-06-15", "2026-06-16", "2026-06-17", "2026-06-18", "2026-06-19", "2026-06-22", "2026-06-23", "2026-06-24", "2026-06-25", "2026-06-26", "2026-06-29", "2026-06-30", "2026-07-01", "2026-07-02", "2026-07-03", "2026-07-06", "2026-07-07", "2026-07-08", "2026-07-09", "2026-07-10", "2026-07-13", "2026-07-14", "2026-07-15", "2026-07-16", "2026-07-17", "2026-07-20", "2026-07-21", "2026-07-22", "2026-07-23", "2026-07-24", "2026-07-27", "2026-07-28", "2026-07-29", "2026-07-30", "2026-07-31", "2026-08-03", "2026-08-04", "2026-08-05", "2026-08-06", "2026-08-07", "2026-08-10", "2026-08-11", "2026-08-12"],
+        labels: ["2026-05-28", "2026-05-29", "2026-06-01", "2026-06-02", "2026-06-03", "2026-06-04", "2026-06-05", "2026-06-08", "2026-06-09", "2026-06-10", "2026-06-11", "2026-06-12", "2026-06-15", "2026-06-16", "2026-06-17", "2026-06-18", "2026-06-19", "2026-06-22", "2026-06-23", "2026-06-24", "2026-06-25", "2026-06-26", "2026-06-29", "2026-06-30", "2026-07-01", "2026-07-02", "2026-07-03", "2026-07-06", "2026-07-07", "2026-07-08", "2026-07-09", "2026-07-10", "2026-07-13", "2026-07-14", "2026-07-15", "2026-07-16", "2026-07-17", "2026-07-20", "2026-07-21", "2026-07-22", "2026-07-23", "2026-07-24", "2026-07-27", "2026-07-28", "2026-07-29", "2026-07-30", "2026-07-31", "2026-08-03", "2026-08-04", "2026-08-05", "2026-08-06", "2026-08-07", "2026-08-10", "2026-08-11", "2026-08-12", "2026-08-13"],
         datasets: [{
             label: 'Paper Trading 權益',
-            data: [200000, 200000, 200000, 200000, 200000, 200000, 200000, 200000, 200000, 200000, 200000, 200000, 200000, 200000, 200000, 200000, 200000, 200000, 200000, 200000, 200000, 200000, 200000, 200000, 200000, 200000, 200000, 200000, 200000, 200000, 200000, 200000, 200000, 200000, 200000, 200000, 200000, 200000, 200000, 200000, 200000, 200000, 200000, 200000, 200000, 200000, 200000, 200000, 200000, 200000, 200000, 200000, 200000, 200000, 200000],
+            data: [200000, 200000, 200000, 200000, 200000, 200000, 200000, 200000, 200000, 200000, 200000, 200000, 200000, 200000, 200000, 200000, 200000, 200000, 200000, 200000, 200000, 200000, 200000, 200000, 200000, 200000, 200000, 200000, 200000, 200000, 200000, 200000, 200000, 200000, 200000, 200000, 200000, 200000, 200000, 200000, 200000, 200000, 200000, 200000, 200000, 200000, 200000, 200000, 200000, 200000, 200000, 200000, 200000, 200000, 200000, 200000],
             borderColor: '#60a5fa',
             backgroundColor: 'rgba(96, 165, 250, 0.1)',
             fill: true,
@@ -174,7 +174,7 @@ new Chart(ctx, {
             borderWidth: 2,
         }, {
             label: '初始資金',
-            data: [200000, 200000, 200000, 200000, 200000, 200000, 200000, 200000, 200000, 200000, 200000, 200000, 200000, 200000, 200000, 200000, 200000, 200000, 200000, 200000, 200000, 200000, 200000, 200000, 200000, 200000, 200000, 200000, 200000, 200000, 200000, 200000, 200000, 200000, 200000, 200000, 200000, 200000, 200000, 200000, 200000, 200000, 200000, 200000, 200000, 200000, 200000, 200000, 200000, 200000, 200000, 200000, 200000, 200000, 200000],
+            data: [200000, 200000, 200000, 200000, 200000, 200000, 200000, 200000, 200000, 200000, 200000, 200000, 200000, 200000, 200000, 200000, 200000, 200000, 200000, 200000, 200000, 200000, 200000, 200000, 200000, 200000, 200000, 200000, 200000, 200000, 200000, 200000, 200000, 200000, 200000, 200000, 200000, 200000, 200000, 200000, 200000, 200000, 200000, 200000, 200000, 200000, 200000, 200000, 200000, 200000, 200000, 200000, 200000, 200000, 200000, 200000],
             borderColor: '#475569',
             borderDash: [5, 5],
             fill: false,
